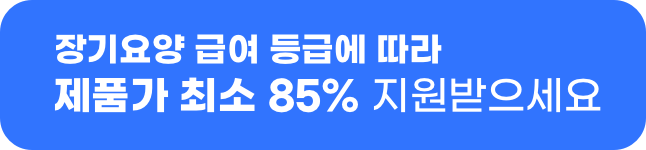
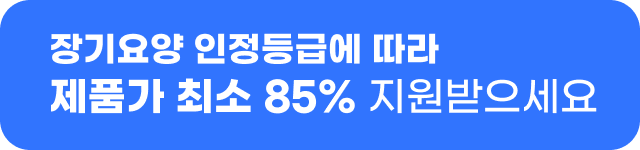
[hotfix] [OEOS-206]이로움ON 용어정책에 따른 텍스트, 이미지 수정 건

diff --git a/src/main/webapp/html/page/index/contents/등급테스트.html b/src/main/webapp/html/page/index/contents/등급테스트.html
@@ -50,7 +50,7 @@
                     <div class="nav-sub-items">
                         <ul>
                             <li class="nav-sub-item"><a href="#">요양정보 간편조회</a></li>
-                            <li class="nav-sub-item"><a href="#">인정 등급 예상 테스트</a></li>
+                            <li class="nav-sub-item"><a href="#">인정등급 예상 테스트</a></li>
                             <li class="nav-sub-item"><a href="#">복지정보 서비스</a></li>
                         </ul>
                     </div>
@@ -171,7 +171,7 @@
                         <img src="../assets/images/img-grade-start.jpg" alt="">
                         <div class="msg1" aria-hidden="true">
                             <div class="box">
-                                장기요양등급<br>
+                                장기요양 인정등급<br>
                                 <strong>신청 절차가 너무 복잡해요.</strong>
                             </div>
                             <svg xmlns="http://www.w3.org/2000/svg" width="47" height="27" viewBox="0 0 47 27"
@@ -249,7 +249,7 @@
                     <li class="taps-item is-active">
                         <a href="#slide-item1">
                             <i><img src="/html/page/index/assets/images/ico-grade-info1.svg" alt=""></i>
-                            <span>예상인정 등급 확인</span>
+                            <span>예상 인정등급 확인</span>
                         </a>
                     </li>
                     <li class="taps-spacer"></li>
@@ -291,7 +291,7 @@
 
             <div class="grade-content2">
                 <h2 class="grade-title">
-                    <small>노인장기요양보험 인정 등급 예상 테스트</small>
+                    <small>노인장기요양보험 인정등급 예상 테스트</small>
                     간단 테스트로 <br class="md:hidden"> 쉽고 든든하게!
                 </h2>
                 <div class="grade-rolling mt-13 md:mt-23">
@@ -302,7 +302,7 @@
                             </div>
                             <div class="item-content">
                                 저희 아버지,<br>
-                                <strong>장기요양등급 몇 등급 일까요?</strong>
+                                <strong class="whitespace-normal">장기요양 인정등급 몇 등급 일까요?</strong>
                             </div>
                         </div>
                         <div class="rolling-item2">
@@ -310,7 +310,7 @@
                                 <img src="/html/page/index/assets/images/img-grade-rolling2.svg" alt="">
                             </div>
                             <div class="item-content">
-                                장기요양 등급별<br>
+                                장기요양 인정등급별<br>
                                 <strong>지원 금액과 혜택이</strong> 궁금해요.
                             </div>
                         </div>
@@ -319,7 +319,7 @@
                                 <img src="/html/page/index/assets/images/img-grade-rolling3.svg" alt="">
                             </div>
                             <div class="item-content">
-                                장기요양등급<br>
+                                장기요양 인정등급<br>
                                 <strong>신청 절차가 너무 복잡해요.</strong>
                             </div>
                         </div>
@@ -338,14 +338,14 @@
 
             <div class="grade-content3">
                 <h2 class="grade-title">
-                    <small>노인장기요양보험 인정 등급 예상 테스트</small>
+                    <small>노인장기요양보험 인정등급 예상 테스트</small>
                     이렇게 제공받아요
                 </h2>
                 <ul class="grade-taps mt-16 md:mt-23 md-max:!hidden">
                     <li class="taps-item is-active">
                         <a href="#slide-item1">
                             <i><img src="/html/page/index/assets/images/ico-grade-info1.svg" alt=""></i>
-                            <span>예상인정 등급 확인</span>
+                            <span>예상 인정등급 확인</span>
                         </a>
                     </li>
                     <li class="taps-spacer"></li>
@@ -382,8 +382,8 @@
                         <div class="swiper">
                             <div class="swiper-wrapper">
                                 <div id="slide-item1" class="swiper-slide">
-                                    <p class="text-2xl font-bold tracking-normal">예상인정 등급 확인</p>
-                                    <p class="mt-2.5">어르신의 예상 인정 등급을 알 수 있어요.</p>
+                                    <p class="text-2xl font-bold tracking-normal">예상 인정등급 확인</p>
+                                    <p class="mt-2.5">어르신의 예상인정 등급을 알 수 있어요.</p>
                                     <img src="/html/page/index/assets/images/img-grade-info1.svg" alt=""
                                         class="mt-11 w-36 md:mt-15 md:w-40">
                                     <img src="/html/page/index/assets/images/img-grade-info1-2.svg" alt=""
@@ -428,7 +428,7 @@
 
             <div class="grade-content4">
                 <h2 class="grade-title">
-                    <small>노인장기요양보험 인정 등급 예상 테스트</small>
+                    <small>노인장기요양보험 인정등급 예상 테스트</small>
                     이렇게 진행돼요
                 </h2>
                 <ul class="grade-taps mt-16 md:mt-23 md-max:!hidden">

diff --git a/src/main/webapp/html/page/index/contents/복지용구 선택.html b/src/main/webapp/html/page/index/contents/복지용구 선택.html
@@ -48,7 +48,7 @@
                     <div class="nav-sub-items">
                         <ul>
                             <li class="nav-sub-item"><a href="#">요양정보 간편조회</a></li>
-                            <li class="nav-sub-item"><a href="#">인정 등급 예상 테스트</a></li>
+                            <li class="nav-sub-item"><a href="#">인정등급 예상 테스트</a></li>
                             <li class="nav-sub-item"><a href="#">복지정보 서비스</a></li>
                         </ul>
                     </div>
@@ -101,7 +101,7 @@
                 <dd>
                     <ul>
                         <li><a href="#">요양정보 간편조회</a></li>
-                        <li><a href="#">인정 등급 예상 테스트</a></li>
+                        <li><a href="#">인정등급 예상 테스트</a></li>
                         <li><a href="#">복지정보 서비스</a></li>
                     </ul>
                 </dd>
@@ -148,7 +148,7 @@
                             인정등급 대상자라면 <br class="md:hidden">
                             <strong class="text-primary3">누구나 동일</strong>
                         </h3>
-                        <p class="desc">인정등급이 궁금하시면 지금 바로 해보세요!</p>
+                        <p class="desc">예상 인정등급이 궁금하시면 지금 바로 해보세요!</p>
                         <a href="#" class="btn btn-large2 btn-primary3 is-arrow"><strong>내 인정등급 확인하기</strong></a>
                     </div>
                     <img src="/html/page/index/assets/images/img-page3-content1.png" alt="" class="img">

diff --git a/src/main/webapp/html/page/index/contents/요양정보간편조회-서브메인.html b/src/main/webapp/html/page/index/contents/요양정보간편조회-서브메인.html
@@ -51,7 +51,7 @@
                     <div class="nav-sub-items">
                         <ul>
                             <li class="nav-sub-item"><a href="#">요양정보 간편조회</a></li>
-                            <li class="nav-sub-item"><a href="#">인정 등급 예상 테스트</a></li>
+                            <li class="nav-sub-item"><a href="#">인정등급 예상 테스트</a></li>
                             <li class="nav-sub-item"><a href="#">복지정보 서비스</a></li>
                         </ul>
                     </div>
@@ -291,7 +291,7 @@
 
             <div class="grade-content3 simple-inquiry">
                 <h2 class="grade-title">
-                    <small>노인장기요양보험 인정 등급 예상 테스트</small>
+                    <small>요양정보 간편조회</small>
                     이렇게 제공받아요
                 </h2>
                 <ul class="grade-taps simple-inquiry mt-16 md:mt-23 md-max:!hidden">
@@ -397,7 +397,7 @@
                             </div>
                             <div id="slide-item7" class="swiper-slide">
                                 <div class="swiper-slide-text">
-                                    <p class="text-2xl font-bold tracking-normal">남은 장기요양 금액</p>
+                                    <p class="text-2xl font-bold tracking-normal">남은 장기요양금액</p>
                                     <p class="text-center">올해 남은 장기요양금액을 확인해요</p>
                                 </div>
                                 <img src="../assets/images/img-inquiry4-2.jpg" alt="장기요양금액 표현이미지">

diff --git a/src/main/webapp/html/page/index/contents/노인장기요양보험.html b/src/main/webapp/html/page/index/contents/노인장기요양보험.html
@@ -48,7 +48,7 @@
                     <div class="nav-sub-items">
                         <ul>
                             <li class="nav-sub-item"><a href="#">요양정보 간편조회</a></li>
-                            <li class="nav-sub-item"><a href="#">인정 등급 예상 테스트</a></li>
+                            <li class="nav-sub-item"><a href="#">인정등급 예상 테스트</a></li>
                             <li class="nav-sub-item"><a href="#">복지정보 서비스</a></li>
                         </ul>
                     </div>
@@ -458,10 +458,10 @@
 
             <div class="page1-content5">
                 <div>
-                    <img src="/html/page/index/assets/images/img-page1-content5.png">
-                    <strong class="text-primary3">이로움 테스트</strong>로<br>
-                    <strong>예상등급을 확인</strong>할 수 있어요!
-                    <a href="#" class="btn">테스트 시작하기</a>
+                    <!-- <img src="/html/page/index/assets/images/img-page1-content5.png"> -->
+                    <img src="../assets/images/img-page1-content5.png">
+                    <strong>예상 인정등급을 확인해 보세요!</strong>
+                    <a href="#" class="btn">지긍 등급 확인하기</a>
                 </div>
             </div>
         </div>

diff --git a/src/main/webapp/html/page/index/contents/faq.html b/src/main/webapp/html/page/index/contents/faq.html
@@ -48,7 +48,7 @@
                     <div class="nav-sub-items">
                         <ul>
                             <li class="nav-sub-item"><a href="#">요양정보 간편조회</a></li>
-                            <li class="nav-sub-item"><a href="#">인정 등급 예상 테스트</a></li>
+                            <li class="nav-sub-item"><a href="#">인정등급 예상 테스트</a></li>
                             <li class="nav-sub-item"><a href="#">복지정보 서비스</a></li>
                         </ul>
                     </div>

diff --git a/src/main/webapp/html/page/index/contents/template.html b/src/main/webapp/html/page/index/contents/template.html
@@ -48,7 +48,7 @@
                     <div class="nav-sub-items">
                         <ul>
                             <li class="nav-sub-item"><a href="#">요양정보 간편조회</a></li>
-                            <li class="nav-sub-item"><a href="#">인정 등급 예상 테스트</a></li>
+                            <li class="nav-sub-item"><a href="#">인정등급 예상 테스트</a></li>
                             <li class="nav-sub-item"><a href="#">복지정보 서비스</a></li>
                         </ul>
                     </div>

diff --git a/src/main/webapp/html/page/index/contents/검색서비스.html b/src/main/webapp/html/page/index/contents/검색서비스.html
@@ -48,7 +48,7 @@
                     <div class="nav-sub-items">
                         <ul>
                             <li class="nav-sub-item"><a href="#">요양정보 간편조회</a></li>
-                            <li class="nav-sub-item"><a href="#">인정 등급 예상 테스트</a></li>
+                            <li class="nav-sub-item"><a href="#">인정등급 예상 테스트</a></li>
                             <li class="nav-sub-item"><a href="#">복지정보 서비스</a></li>
                         </ul>
                     </div>

diff --git a/src/main/webapp/html/page/index/contents/등급테스트 결과.html b/src/main/webapp/html/page/index/contents/등급테스트 결과.html
@@ -49,7 +49,7 @@
                     <div class="nav-sub-items">
                         <ul>
                             <li class="nav-sub-item"><a href="#">요양정보 간편조회</a></li>
-                            <li class="nav-sub-item"><a href="#">인정 등급 예상 테스트</a></li>
+                            <li class="nav-sub-item"><a href="#">인정등급 예상 테스트</a></li>
                             <li class="nav-sub-item"><a href="#">복지정보 서비스</a></li>
                         </ul>
                     </div>

diff --git a/src/main/webapp/html/page/index/contents/로그인.html b/src/main/webapp/html/page/index/contents/로그인.html
@@ -48,7 +48,7 @@
                     <div class="nav-sub-items">
                         <ul>
                             <li class="nav-sub-item"><a href="#">요양정보 간편조회</a></li>
-                            <li class="nav-sub-item"><a href="#">인정 등급 예상 테스트</a></li>
+                            <li class="nav-sub-item"><a href="#">인정등급 예상 테스트</a></li>
                             <li class="nav-sub-item"><a href="#">복지정보 서비스</a></li>
                         </ul>
                     </div>

diff --git a/src/main/webapp/html/page/index/contents/메인.html b/src/main/webapp/html/page/index/contents/메인.html
@@ -51,7 +51,7 @@
                     <div class="nav-sub-items">
                         <ul>
                             <li class="nav-sub-item"><a href="#">요양정보 간편조회</a></li>
-                            <li class="nav-sub-item"><a href="#">인정 등급 예상 테스트</a></li>
+                            <li class="nav-sub-item"><a href="#">인정등급 예상 테스트</a></li>
                             <li class="nav-sub-item"><a href="#">복지정보 서비스</a></li>
                         </ul>
                     </div>

diff --git a/src/main/webapp/html/page/index/contents/복지용구 활용.html b/src/main/webapp/html/page/index/contents/복지용구 활용.html
@@ -48,7 +48,7 @@
                     <div class="nav-sub-items">
                         <ul>
                             <li class="nav-sub-item"><a href="#">요양정보 간편조회</a></li>
-                            <li class="nav-sub-item"><a href="#">인정 등급 예상 테스트</a></li>
+                            <li class="nav-sub-item"><a href="#">인정등급 예상 테스트</a></li>
                             <li class="nav-sub-item"><a href="#">복지정보 서비스</a></li>
                         </ul>
                     </div>

diff --git a/src/main/webapp/html/page/index/contents/상담신청로그인.html b/src/main/webapp/html/page/index/contents/상담신청로그인.html
@@ -48,7 +48,7 @@
                     <div class="nav-sub-items">
                         <ul>
                             <li class="nav-sub-item"><a href="#">요양정보 간편조회</a></li>
-                            <li class="nav-sub-item"><a href="#">인정 등급 예상 테스트</a></li>
+                            <li class="nav-sub-item"><a href="#">인정등급 예상 테스트</a></li>
                             <li class="nav-sub-item"><a href="#">복지정보 서비스</a></li>
                         </ul>
                     </div>
